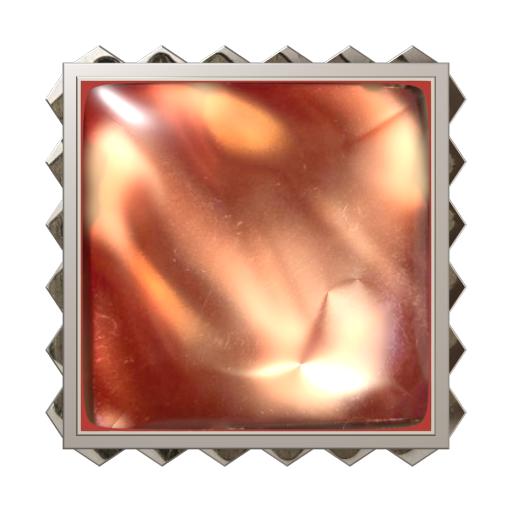
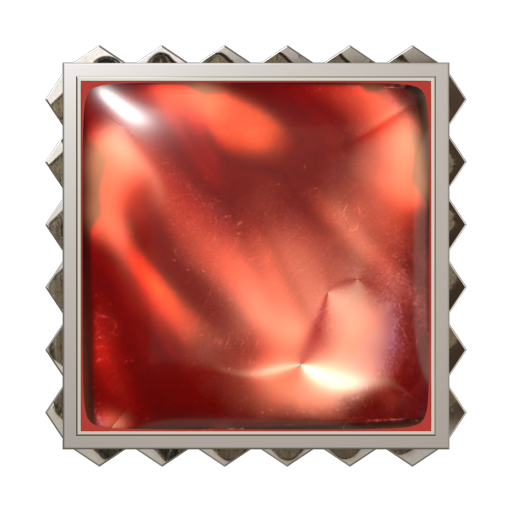
No.010 正面の色をもっと赤に
Claude-Session: https://claude.ai/code/session_016FYwPZtfL2VXYvYEvMUPRr

diff --git a/buttons/010/model.js b/buttons/010/model.js
@@ -58,8 +58,8 @@ function buildJ() {
   pm.onBeforeCompile = (sh) => {
     basePm(sh);
     sh.fragmentShader = sh.fragmentShader
-      .replace('vec3 copper = vec3(1.0, 0.52, 0.22);', 'vec3 copper = mix(vec3(1.0, 0.62, 0.25), vec3(1.0, 0.92, 0.7), clamp(streak * 0.6, 0.0, 1.0));')
-      .replace('totalEmissiveRadiance += copper * streak * fb.b * 1.0;', 'totalEmissiveRadiance += copper * streak * fb.b * 1.8;');
+      .replace('vec3 copper = vec3(1.0, 0.52, 0.22);', 'vec3 copper = mix(vec3(1.0, 0.36, 0.16), vec3(1.0, 0.88, 0.62), clamp(streak * streak * 0.5, 0.0, 1.0));')
+      .replace('totalEmissiveRadiance += copper * streak * fb.b * 1.0;', 'totalEmissiveRadiance += copper * streak * fb.b * 1.3;');
   };
   const stone = new THREE.Mesh(sgeo, pm);
   stone.onBeforeRender = (r, s, cam) => { pm.userData.uMV.value.setFromMatrix4(new THREE.Matrix4().multiplyMatrices(cam.matrixWorldInverse, stone.matrixWorld)); };

diff --git a/index.html b/index.html
@@ -67,7 +67,7 @@
       <div class="cap"><span class="no">No. 009</span><span class="name">炎もようのシルバーリング</span><span class="sub">赤いエナメルの炎もようを抜いた磨きのシルバーのリングと、銀ラメ入りの赤いマーブル</span></div>
     </a></li>
     <li><a class="card" href="buttons/010/">
-      <div class="well"><img src="buttons/010/thumb.png?v=7a1bde11c2" width="512" height="512" alt="切手縁の紅シェルのボタン" loading="lazy"></div>
+      <div class="well"><img src="buttons/010/thumb.png?v=39ed41474b" width="512" height="512" alt="切手縁の紅シェルのボタン" loading="lazy"></div>
       <div class="cap"><span class="no">No. 010</span><span class="name">切手縁の紅シェル</span><span class="sub">切手のようなギザギザのシルバー台に、赤いシェル調のクッション形の石</span></div>
     </a></li>
   </ul>

diff --git a/buttons/010/index.html b/buttons/010/index.html
@@ -47,8 +47,8 @@
   <footer>表と裏の模様は、実物のボタンを撮った写真から切り抜いて貼っています。厚みや足の形は写真を見ながら合わせたもので、だいたいの形です。</footer>
 </div>
 <script src="https://cdn.jsdelivr.net/npm/three@0.147.0/build/three.min.js"></script>
-<script>window.ASSET_V = "a35a657ffe";</script>
+<script>window.ASSET_V = "9172bb4a4f";</script>
 <script src="../../assets/zukan.js?v=32108acddd"></script>
-<script src="model.js?v=a35a657ffe"></script>
+<script src="model.js?v=9172bb4a4f"></script>
 </body>
 </html>
